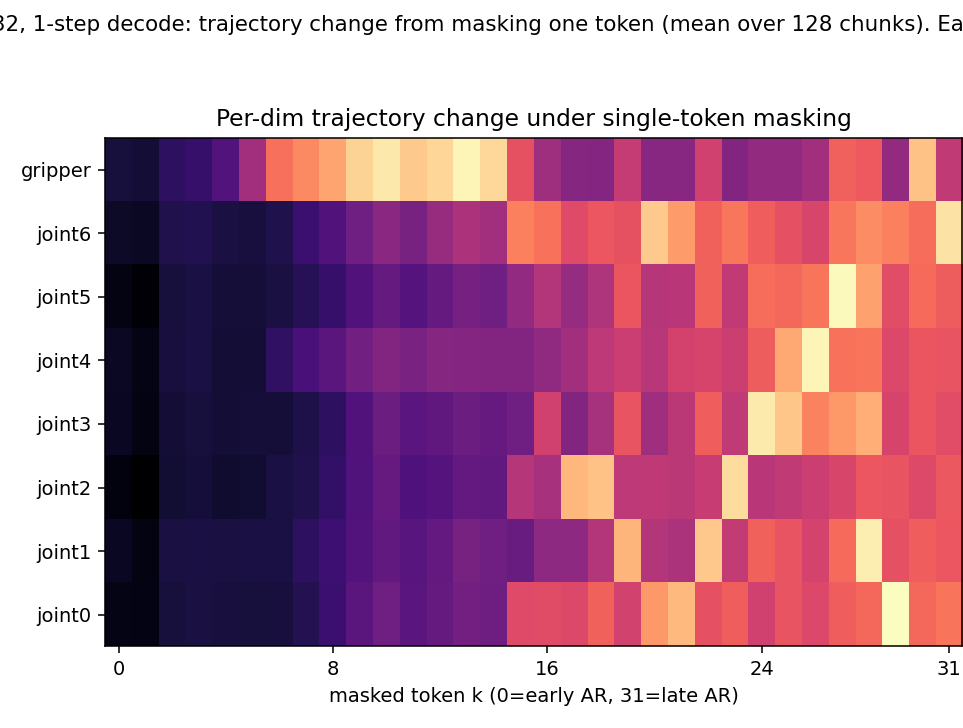
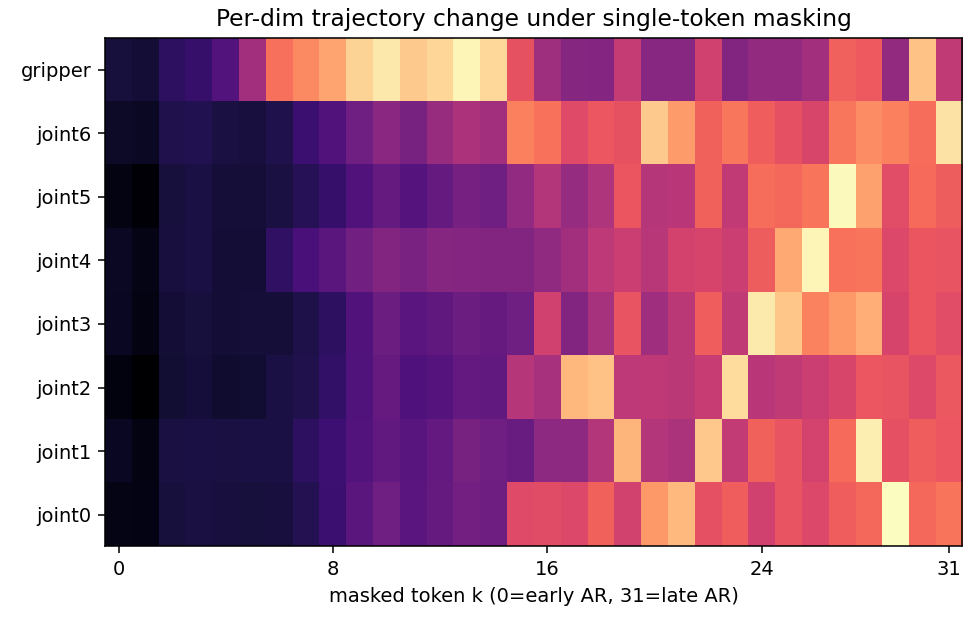
Causality Validation: rewrite as experimental results (not rebuttal); add Project Page link; crop Figure 8 in-image title

diff --git a/CATok/index.html b/CATok/index.html
@@ -193,24 +193,11 @@
     <p class="section-subtitle">Learned coarse-to-fine token roles &mdash; validated by native-decoder intervention</p>
     <div class="section">
       <p>
-        We clarify and test three linked points. <strong>&ldquo;Coarse-to-fine&rdquo;</strong> refers to learned flow-stage-wise refinement&mdash;not a prescribed frequency or fixed-basis decomposition. A <strong>donor-swap intervention</strong> with CATok&rsquo;s native velocity network tests whether individual token positions have distinct, stage-specific effects. <strong>Single-token-zeroing visualizations</strong> reveal how those roles map onto action dimensions: early tokens mainly encode coarse gripper-related task state, whereas late tokens encode fine joint-level trajectory details. Together, these analyses test both the <em>flow-stage alignment</em> and the <em>functional granularity</em> of the learned token roles.
+        We use two native-decoder interventions&mdash;a donor-swap at the velocity level and single-token zeroing at the trajectory level&mdash;to characterize the generative roles of individual token positions. Under conditional annealing, token <em>k</em> is bound to flow stage <em>k</em> via suffix masking, so as flow matching refines the trajectory from high- to low-noise stages, each token is trained to contribute at a particular refinement stage. We examine whether the learned tokens acquire <strong>distinct, flow-stage-aligned effects</strong> and a <strong>coarse-to-fine functional progression</strong> in action space; here, &ldquo;coarse-to-fine&rdquo; denotes the granularity of learned control information along the refinement process, not a prescribed frequency or fixed-basis decomposition.
       </p>
     </div>
 
-    <div class="subsection">1) &ldquo;Coarse-to-fine&rdquo; means learned flow-stage refinement</div>
-    <div class="section">
-      <p>
-        We do <strong>not</strong> claim that CATok learns a prescribed basis, such as a low-to-high-frequency decomposition. Here, &ldquo;coarse-to-fine&rdquo; describes the <em>generation process and the granularity of learned control information</em>, not the spectral content of individual tokens.
-      </p>
-      <p>
-        The mechanism is straightforward. <strong>Flow matching is a gradual refinement process:</strong> the ODE evolves an action trajectory from a high-noise state toward the low-noise data state, so different flow times correspond to different refinement stages. <strong>Conditional annealing aligns token positions with those stages:</strong> as flow time changes, the suffix-masking schedule changes which token positions are available to the velocity network, so each position is trained to contribute within a particular flow-time range. <strong>Repeated training induces functional specialization:</strong> tokens associated with earlier stages encode coarse, task-level information, whereas tokens associated with later stages encode the details needed to refine the trajectory.
-      </p>
-      <p>
-        This yields two testable expectations: <strong>(i)</strong> each token&rsquo;s influence should concentrate near its assigned flow stage, and <strong>(ii)</strong> token content should progress from coarse task-execution state to fine trajectory detail. Sections 2 and 3 test these expectations, respectively, using the native inference modules.
-      </p>
-    </div>
-
-    <div class="subsection">2) Native-decoder donor-swap intervention</div>
+    <div class="subsection">Donor-swap influence matrix</div>
     <div class="section">
       <p>
         We use the trained CATok tokenizer checkpoint (<em>K</em>=32, codebook 4096, horizon 20), its MMDiT velocity network <em>v<sub>&theta;</sub></em>, and its ODE decoder <em>D</em>&mdash;the same modules used at inference, not a separately trained prefix decoder. We encode 128 held-out Franka action chunks (7-DoF + gripper) as <em>Q</em> = (<em>q</em><sub>1</sub>, &hellip;, <em>q<sub>K</sub></em>). For each token <em>k</em>, we replace its embedding with the same-position embedding from a donor chunk&mdash;keeping the intervention within the slot&rsquo;s empirical distribution&mdash;while holding <em>x<sub>t</sub></em>, <em>t</em>, and the noise realization fixed, so the resulting change isolates token <em>k</em>&rsquo;s effect on the velocity prediction. For each flow time <em>t</em> we measure
@@ -228,18 +215,18 @@
 
     <div class="section">
       <p>
-        Swapping a token changes the velocity field primarily at that token&rsquo;s assigned flow stage:
+        The influence matrix exhibits two properties:
       </p>
       <ul>
         <li><strong>Schedule-consistent support.</strong> Token <em>k</em> is visible only for <em>t</em> &lt; (<em>k</em>+1)/<em>K</em>, consistent with the suffix-masking schedule &kappa;(t) = <em>tK</em>.</li>
-        <li><strong>Stage-specific peaks.</strong> Within its active range, each token&rsquo;s peak influence occurs near its assigned stage, <em>t*</em> &asymp; <em>k</em>/<em>K</em>, with <strong>corr(<em>k</em>, <em>t*</em>) = 0.985</strong> (0.995 after grouping). The localized, stage-aligned responses show that token positions are functionally differentiated and not interchangeable&mdash;confirming expectation (i).</li>
+        <li><strong>Stage-specific peaks.</strong> Within its active range, each token&rsquo;s peak influence occurs near its assigned stage, <em>t*</em> &asymp; <em>k</em>/<em>K</em>, with <strong>corr(<em>k</em>, <em>t*</em>) = 0.985</strong> (0.995 after grouping). Early tokens peak at high-noise (coarse) stages and late tokens at low-noise (fine) stages, so token effects are distinct and aligned with their assigned flow stages rather than interchangeable.</li>
       </ul>
     </div>
 
-    <div class="subsection">3) Action-dimension visualization by single-token zeroing</div>
+    <div class="subsection">Single-token zeroing: per-dimension trajectory change</div>
     <div class="section">
       <p>
-        We next examine whether this stage specialization also exhibits the expected coarse-to-fine progression in action semantics. We zero each token embedding in turn, decode with the native ODE decoder, and visualize the resulting change in every action dimension&mdash;a complementary, trajectory-level view of what each token position controls.
+        We next characterize how this stage specialization maps onto action dimensions. We zero each token embedding in turn, decode the intervened sequence with the native ODE decoder at 1 step (matching the deployed VLA&rsquo;s <em>flow_steps=1</em>), and measure the resulting per-dimension trajectory change.
       </p>
     </div>
 
@@ -247,12 +234,12 @@
       <img src="./media/causality_mask_effect_step1.png" alt="Per-dimension trajectory change under single-token zeroing" style="width:100%; display:block;">
     </div>
     <p class="figure-caption">
-      <strong>Figure 8. Per-dimension trajectory change under single-token zeroing (1-step decode).</strong> Each cell is the RMS change of an action dimension (log color) when token <em>k</em> is zeroed. Early tokens (<em>k</em> &le; 4) perturb primarily the gripper-related dimension&mdash;the gripper command reflects the task-execution state, so these tokens encode a coarse description of task progress. Late tokens (<em>k</em> &ge; 12) perturb individual joint dimensions, encoding the fine-grained motion needed to specify and refine the trajectory. Token roles thus progress from coarse gripper/task-state information to fine joint/trajectory-detail information&mdash;confirming expectation (ii). This organization is learned through flow-stage alignment; it is not a hand-designed assignment of token semantics.
+      <strong>Figure 8. Per-dimension trajectory change under single-token zeroing (1-step decode).</strong> Each cell is the RMS change of an action dimension (log color) when token <em>k</em> is zeroed. Early tokens (<em>k</em> &le; 4) perturb primarily the gripper-related dimension&mdash;the gripper command reflects the task-execution state, so these tokens encode a coarse description of task progress. Late tokens (<em>k</em> &ge; 12) perturb individual joint dimensions, encoding the fine-grained motion needed to specify and refine the trajectory. The footprint of each token thus progresses from coarse gripper/task-state information to fine joint/trajectory-detail information along the token order. This organization is learned through flow-stage alignment; it is not a hand-designed assignment of token semantics.
     </p>
 
     <div class="section" style="margin-top: 8px;">
       <p>
-        <strong>Together,</strong> the three points establish that (1) conditional annealing defines a learned coarse-to-fine refinement process, (2) donor swaps verify that token effects are distinct and aligned with their assigned flow stages, and (3) single-token zeroing reveals the corresponding functional progression from early gripper/task-state information to late joint/trajectory-detail information.
+        Taken together, the donor-swap and zeroing results show that conditional annealing induces a learned coarse-to-fine refinement process: token effects are distinct and aligned with their assigned flow stages, and their action-dimension footprint progresses from coarse gripper/task-state information to fine joint/trajectory-detail information.
       </p>
     </div>
 

diff --git a/_includes/section-publications.html b/_includes/section-publications.html
@@ -22,7 +22,7 @@
 <div class="pub-body">
 <div class="pub-title">{% if post.link %}<a href="{{ post.link }}">{{ post.title }}</a>{% else %}<a href="{{ post.url | prepend: base_path }}">{{ post.title }}</a>{% endif %}</div>
 <div class="pub-authors">{% for a in post.authors %}{% if a.name == site.author.name %}<strong>{{ a.name }}</strong>{% else %}{{ a.name }}{% endif %}{% if a.co_first %}<sup>*</sup>{% endif %}{% if a.corresponding %}<sup>&dagger;</sup>{% endif %}{% unless forloop.last %}, {% endunless %}{% endfor %}</div>
-<div class="pub-venue">{% if post.category == 'submissions' and post.venue %}In Submission to <i>{{ post.venue }}</i>{% elsif post.category == 'submissions' %}In Submission{% elsif post.venue %}Published in <i>{{ post.venue }}</i>{% endif %}{% if post.bibtexurl %} &middot; <a href="{{ post.bibtexurl }}">BibTeX</a>{% endif %}</div>
+<div class="pub-venue">{% if post.category == 'submissions' and post.venue %}In Submission to <i>{{ post.venue }}</i>{% elsif post.category == 'submissions' %}In Submission{% elsif post.venue %}Published in <i>{{ post.venue }}</i>{% endif %}{% if post.website %} &middot; <a href="{{ post.website }}">Project Page</a>{% endif %}{% if post.bibtexurl %} &middot; <a href="{{ post.bibtexurl }}">BibTeX</a>{% endif %}</div>
 </div>
 </div>
 {% endfor %}

diff --git a/_includes/archive-single.html b/_includes/archive-single.html
@@ -67,7 +67,7 @@
     {% endif %}
     
     {% if post.website %}
-      <p><a href="{{ post.website }}">Website</a></p>
+      <p><a href="{{ post.website }}">Project Page</a></p>
     {% endif %}
 
     {% if post.citation and post.paperurl and post.slidesurl and post.bibtexurl %}
